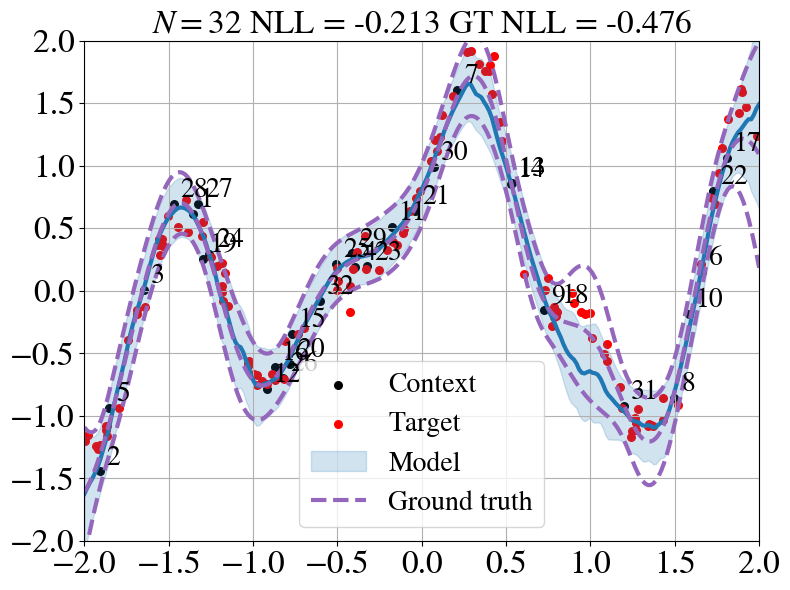
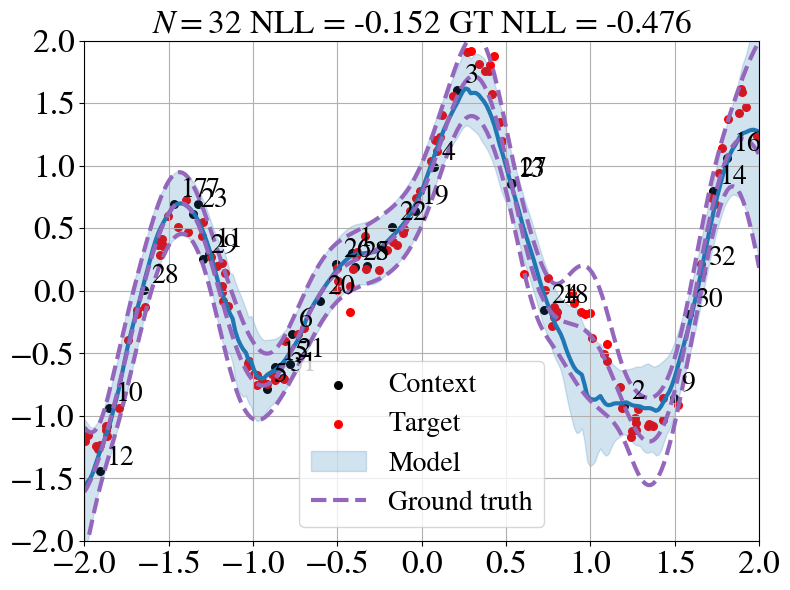
Eval framework

diff --git a/experiments/eval_over_testset.py b/experiments/eval_over_testset.py
@@ -1,0 +1,190 @@
+# Core idea is to measure the peformance of models over a given test set (especially order senstivie models and batching strategies for that)
+import numpy as np
+import torch
+from scipy import stats
+from check_shapes import check_shapes
+from tnp.utils.experiment_utils import initialize_experiment
+from tnp.utils.data_loading import adjust_num_batches
+from tnp.utils.lightning_utils import LitWrapper
+import time
+import warnings
+from tnp.data.gp import RandomScaleGPGenerator
+from tnp.networks.gp import RBFKernel
+from functools import partial
+import matplotlib
+import matplotlib.pyplot as plt
+from matplotlib.colors import Normalize
+from matplotlib.cm import ScalarMappable
+import random
+from typing import Optional, Union
+import os
+import wandb
+from tnp.data.base import Batch, GroundTruthPredictor
+from tnp.data.synthetic import SyntheticBatch
+from tnp.utils.np_functions import np_pred_fn, np_loss_fn
+from typing import Callable, List, Tuple, Union, Optional
+from torch import nn
+import copy
+import matplotlib.path as mpath
+import matplotlib.patches as mpatches
+import hiyapyco
+import lightning.pytorch as pl
+import torch
+from hydra.utils import instantiate
+from omegaconf import DictConfig, OmegaConf
+from tnp.utils.experiment_utils import deep_convert_dict, extract_config
+import matplotlib.patheffects as pe
+from tnp.data.base import Batch
+from tnp.models.incTNPBatchedPrior import IncTNPBatchedPrior
+from plot_adversarial_perms import get_model
+
+
+matplotlib.rcParams["mathtext.fontset"] = "stix"
+matplotlib.rcParams["font.family"] = "STIXGeneral"
+
+def shuffle_batch(batch, shuffle_strategy, device: str="cuda"):
+    assert shuffle_strategy in {"random"}, "Invalid context shuffle strategy"
+    m, nc, dx = batch.xc.shape
+    _, nt, dy = batch.yt.shape
+    batch_new = None
+    if shuffle_strategy == "random":
+        perms = torch.rand(m, nc, device=batch.xc.device).argsort(dim=1)
+        perm_x = perms.unsqueeze(-1).expand(-1, -1, dx) 
+        perm_y = perms.unsqueeze(-1).expand(-1, -1, dy)
+        xc_shuffled = torch.gather(batch.xc, 1, perm_x) 
+        yc_shuffled = torch.gather(batch.yc, 1, perm_y)
+        x = torch.cat((xc_shuffled, batch.xt), dim=1)
+        y = torch.cat((yc_shuffled, batch.yt), dim=1)
+        batch_new = Batch(xc=xc_shuffled, yc=yc_shuffled, xt=batch.xt, yt=batch.yt, y=y, x=x)
+    
+    # Converts batch to cuda
+    batch_new.xc, batch_new.yc, batch_new.xt, batch_new.yt, batch_new.x, batch_new.y = batch_new.xc.to(device), batch_new.yc.to(device), batch_new.xt.to(device), batch_new.yt.to(device), batch_new.x.to(device), batch_new.y.to(device)
+    return batch_new
+
+
+# Evaluates a given models performance. Includes the option for a small number of defined strategies.
+@torch.no_grad
+def eval_model(model, test_set, shuffle_strategy):
+    log_liks, rmse_vals, gt_log_liks = [], [], []
+    for batch_test in test_set:
+        # Shuffles data using defined permute strategy
+        batch = shuffle_batch(batch_test, shuffle_strategy)
+        # Model LL and rmse
+        m, nt, _ = batch.yt.shape
+        # Gets predictive distribution from model
+        pred_dist = np_pred_fn(model, batch, predict_without_yt_tnpa=True)
+        ll = pred_dist.log_prob(batch.yt).sum() / (m * nt)
+        rmse = nn.functional.mse_loss(pred_dist.mean, batch.yt).sqrt().cpu()
+
+        # GT LL - may need to wrap this in if statement in future datasets
+        _, _, gt_loglik = batch_test.gt_pred(
+            xc=batch.xc, yc=batch.yc, xt=batch.xt, yt=batch.yt
+        )
+        gt_loglik = gt_loglik.sum() / (m * nt)
+
+        # Adds data
+        log_liks.append(ll.item())
+        rmse_vals.append(rmse.item())
+        gt_log_liks.append(gt_loglik.item())
+
+    # Gathers results
+    results = {
+        "mean_ll": np.mean(log_liks),
+        "std_ll": np.std(log_liks),
+        "mean_rmse": np.mean(rmse_vals),
+        "std_rmse": np.std(rmse_vals),
+        "mean_gt_ll": np.mean(gt_log_liks),
+        "std_gt_ll": np.std(gt_log_liks),
+    }
+    return results
+
+# Evaluates model performance over a number of passes of the test set (e.g. to account for noise etc)
+def eval_model_over_permutations(model, test_set, no_reps: int = 1, shuffle_strategy: str = "random"):
+    model.eval()
+    num_params = sum(p.numel() for p in model.parameters())
+    mean_lls, std_lls, mean_rmse_vals, std_rmse_vals, mean_gt_lls, std_gt_lls = [], [], [], [], [], []
+    for _ in range(no_reps):
+        result = eval_model(model, test_set, shuffle_strategy)
+        mean_lls.append(result["mean_ll"])
+        std_lls.append(result["std_ll"])
+        mean_rmse_vals.append(result["mean_rmse"])
+        std_rmse_vals.append(result["std_rmse"])
+        mean_gt_lls.append(result["mean_gt_ll"])
+        std_gt_lls.append(result["std_gt_ll"])
+    # Gathers results
+    results = {
+        "num_params": num_params,
+        "mean_lls": mean_lls,
+        "std_lls": std_lls,
+        "mean_rmse_vals": mean_rmse_vals,
+        "std_rmse_vals": std_rmse_vals,
+        "mean_gt_lls": mean_gt_lls,
+        "std_gt_lls": std_gt_lls,
+    }
+    return results
+        
+
+# Gets rbf kernel with rangesame default test params used
+def get_rbf_rangesame_test_set():
+    # RBF kernel params
+    ard_num_dims = 1
+    min_log10_lengthscale = -0.602
+    max_log10_lengthscale = 0.0
+    rbf_kernel_factory = partial(RBFKernel, ard_num_dims=ard_num_dims, min_log10_lengthscale=min_log10_lengthscale,
+                         max_log10_lengthscale=max_log10_lengthscale)
+    kernels = [rbf_kernel_factory]
+    # Data generator params for test set
+    min_nc = 1
+    max_nc = 64
+    nt= 128
+    context_range = [[-2.0, 2.0]]
+    target_range = [[-2.0, 2.0]]
+    samples_per_epoch = 4096
+    batch_size = 16
+    noise_std = 0.1
+    deterministic = True
+    gen_test = RandomScaleGPGenerator(dim=1, min_nc=min_nc, max_nc=max_nc, min_nt=nt, max_nt=nt, batch_size=batch_size,
+        context_range=context_range, target_range=target_range, samples_per_epoch=samples_per_epoch, noise_std=noise_std,
+        deterministic=deterministic, kernel=kernels)
+    test_set = [batch for batch in gen_test]
+    return test_set
+
+# Main function used to handle flow of evaluating model and plotting the results
+def models_perf_main(model_list, test_set, no_reps):
+    folder_name = "experiments/plot_results/eval_set/"
+    txt_file_summary = f'Summary over eval data set (likely rbf rangesame) with {no_reps} reps'
+    for (yml_path, wandb_id, shuffle_strategy, model_name, special_args) in model_list:
+        model = get_model(yml_path, wandb_id, seed=False) # Loads model
+        assert special_args in {""}, "Invalid special model arguments"
+        results = eval_model_over_permutations(model, test_set, no_reps, shuffle_strategy)
+
+        summary_block = f"""
+        ----------------------------
+        Model: {model_name}
+        Params: {results["num_params"]}
+        Mean_LLs: {results["mean_lls"]}
+        Std_LLs: {results["std_lls"]}
+        Mean_RMSEs: {results["mean_rmse_vals"]}
+        Std_RMSEs: {results["std_rmse_vals"]}
+        Mean_GT_LLs: {results["mean_gt_lls"]}
+        Std_GT_LLs: {results["std_gt_lls"]}
+        """
+        txt_file_summary += summary_block
+    with open(folder_name + 'eval_summary.txt', 'w') as file_object:
+        file_object.write(txt_file_summary)
+
+# List of models to be tested, adjust this as required
+def get_model_list():
+    # List of models
+    tnp_plain = ('experiments/configs/synthetic1dRBF/gp_plain_tnp_rangesame.yml', 
+        'pm846-university-of-cambridge/plain-tnp-rbf-rangesame/model-7ib3k6ga:v200', 'random', "TNP-D", "")
+    
+    # Defines models to be used
+    models = [tnp_plain]
+    return models
+
+if __name__ == "__main__":
+    pl.seed_everything(1) #  Sets seed of randomness for reproducibility
+    no_reps = 2 # Number of repititions to aggregate performance over
+    models_perf_main(get_model_list(), get_rbf_rangesame_test_set(), no_reps=no_reps)
+    

diff --git a/experiments/plot_adversarial_perms.py b/experiments/plot_adversarial_perms.py
@@ -453,7 +453,7 @@ def greedy_selection_strats(masked_model, xc: torch.Tensor, yc: torch.Tensor, xt
 def greedy_variance_ctx_builder(masked_model, xc: torch.Tensor, yc: torch.Tensor, xt: torch.Tensor, yt: torch.Tensor,
     policy: str = "best", device: str="cuda") -> Tuple[torch.LongTensor, torch.Tensor]:
     assert policy in {"best", "worst", "median"}, "Invalid policy"
-    assert isinstance(masked_model, IncTNPBatchedPrior), "Only supports specific zero prioir conditioned model atm"
+    #assert isinstance(masked_model, IncTNPBatchedPrior), "Only supports specific zero prioir conditioned model atm"
 
     xc, yc, xt, yt = xc.to(device), yc.to(device), xt.to(device), yt.to(device)
     # When deciding the context set ordering, start with an empty context set and build up greedily (or according to some shallow strategy)
@@ -580,7 +580,7 @@ def visualise_perms(tnp_model, perms: torch.tensor, log_p: torch.tensor, xc: tor
     plot_log_p_lines([(inc_vars_best, "Best Greedy-V"), (inc_vars_median, "Median Greedy-V"), (inc_vars_worst, "Worst Greedy-V")], f"{folder_path}/vargreedy_lines_{file_id}", yt.shape[1])
 
 
-def get_model(config_path, weights_and_bias_ref, device='cuda'):
+def get_model(config_path, weights_and_bias_ref, device='cuda', seed: bool = True):
     raw_config = deep_convert_dict(
         hiyapyco.load(
             config_path,
@@ -594,10 +594,10 @@ def get_model(config_path, weights_and_bias_ref, device='cuda'):
     config = deep_convert_dict(config)
 
     # Instantiate experiment and load checkpoint.
-    pl.seed_everything(config.misc.seed)
+    if seed: pl.seed_everything(config.misc.seed)
     experiment = instantiate(config)
     experiment.config = config
-    pl.seed_everything(experiment.misc.seed)
+    if seed: pl.seed_everything(experiment.misc.seed)
 
     # Loads weights and bias model
     artifact = wandb.Api().artifact(weights_and_bias_ref, type='model')
@@ -641,13 +641,13 @@ if __name__ == "__main__":
         'pm846-university-of-cambridge/plain-tnp-rbf-rangesame/model-7ib3k6ga:v200')
     plain_model.eval()
 
-    #masked_model = get_model('experiments/configs/synthetic1dRBF/gp_causal_tnp.yml', 
-    #    'pm846-university-of-cambridge/mask-tnp-rbf-rangesame/model-vavo8sh2:v200')
-    #masked_model.eval()
-
-    masked_model = get_model('experiments/configs/synthetic1dRBF/gp_priorbatched_causal_tnp_rbf_rangesame.yml',
-        'pm846-university-of-cambridge/mask-priorbatched-tnp-rbf-rangesame/model-smgj3gn6:v150')
+    masked_model = get_model('experiments/configs/synthetic1dRBF/gp_causal_tnp.yml', 
+        'pm846-university-of-cambridge/mask-tnp-rbf-rangesame/model-vavo8sh2:v200')
     masked_model.eval()
+
+    #masked_model = get_model('experiments/configs/synthetic1dRBF/gp_priorbatched_causal_tnp_rbf_rangesame.yml',
+    #    'pm846-university-of-cambridge/mask-priorbatched-tnp-rbf-rangesame/model-smgj3gn6:v180')
+    #masked_model.eval()
 
     # Sorts context in order
     xc = data.xc
